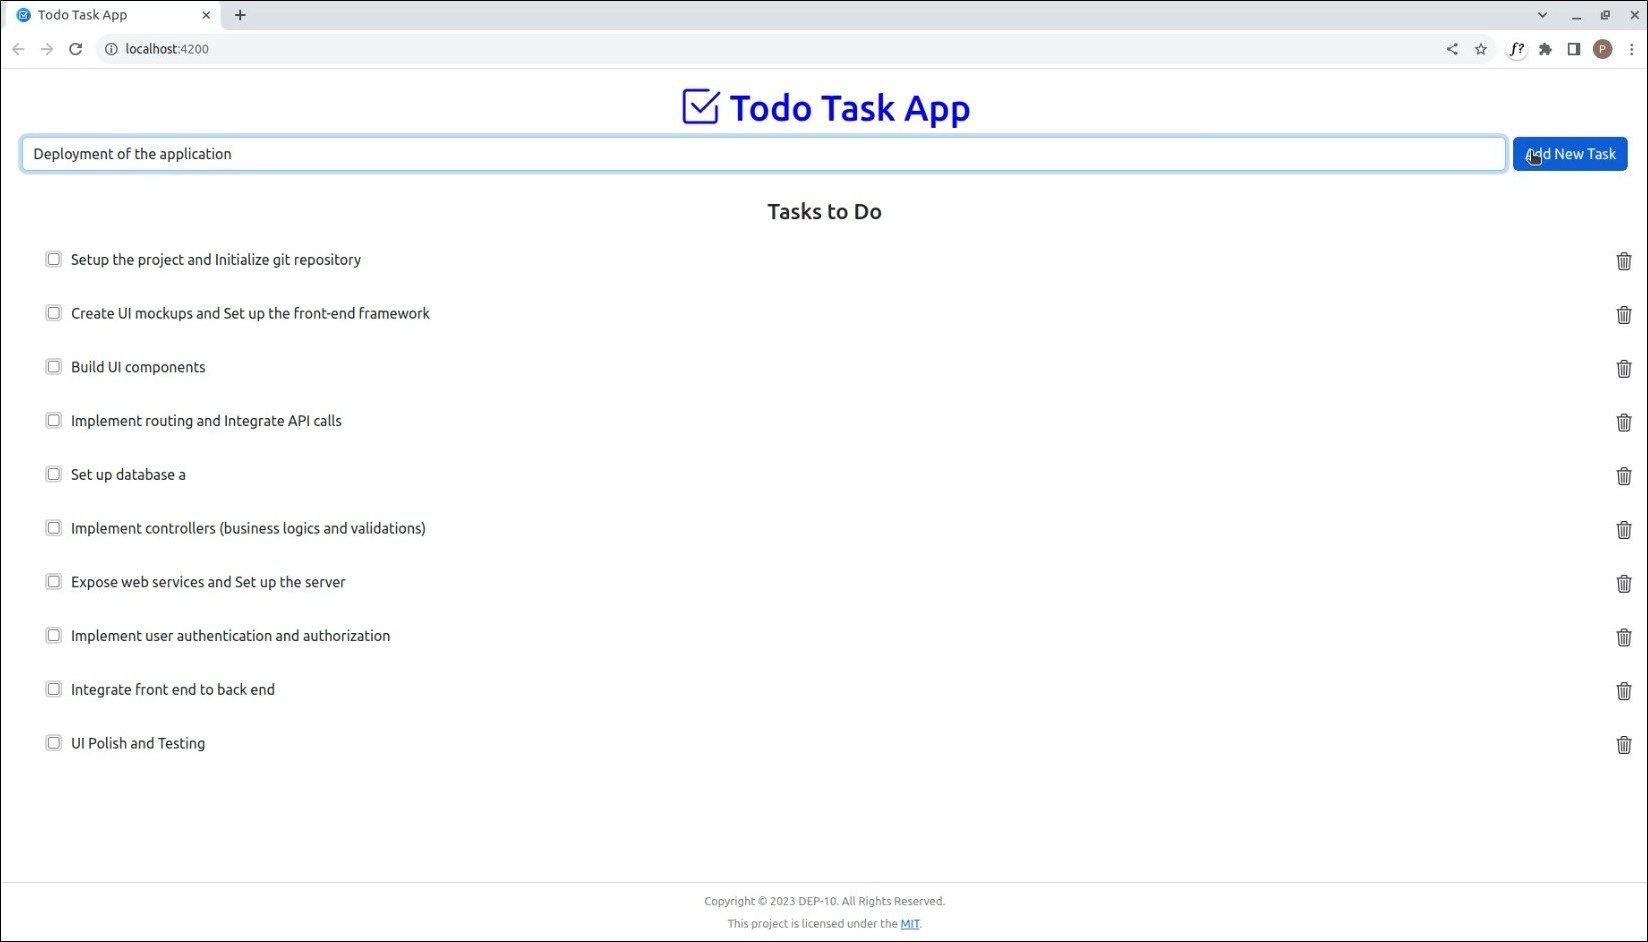
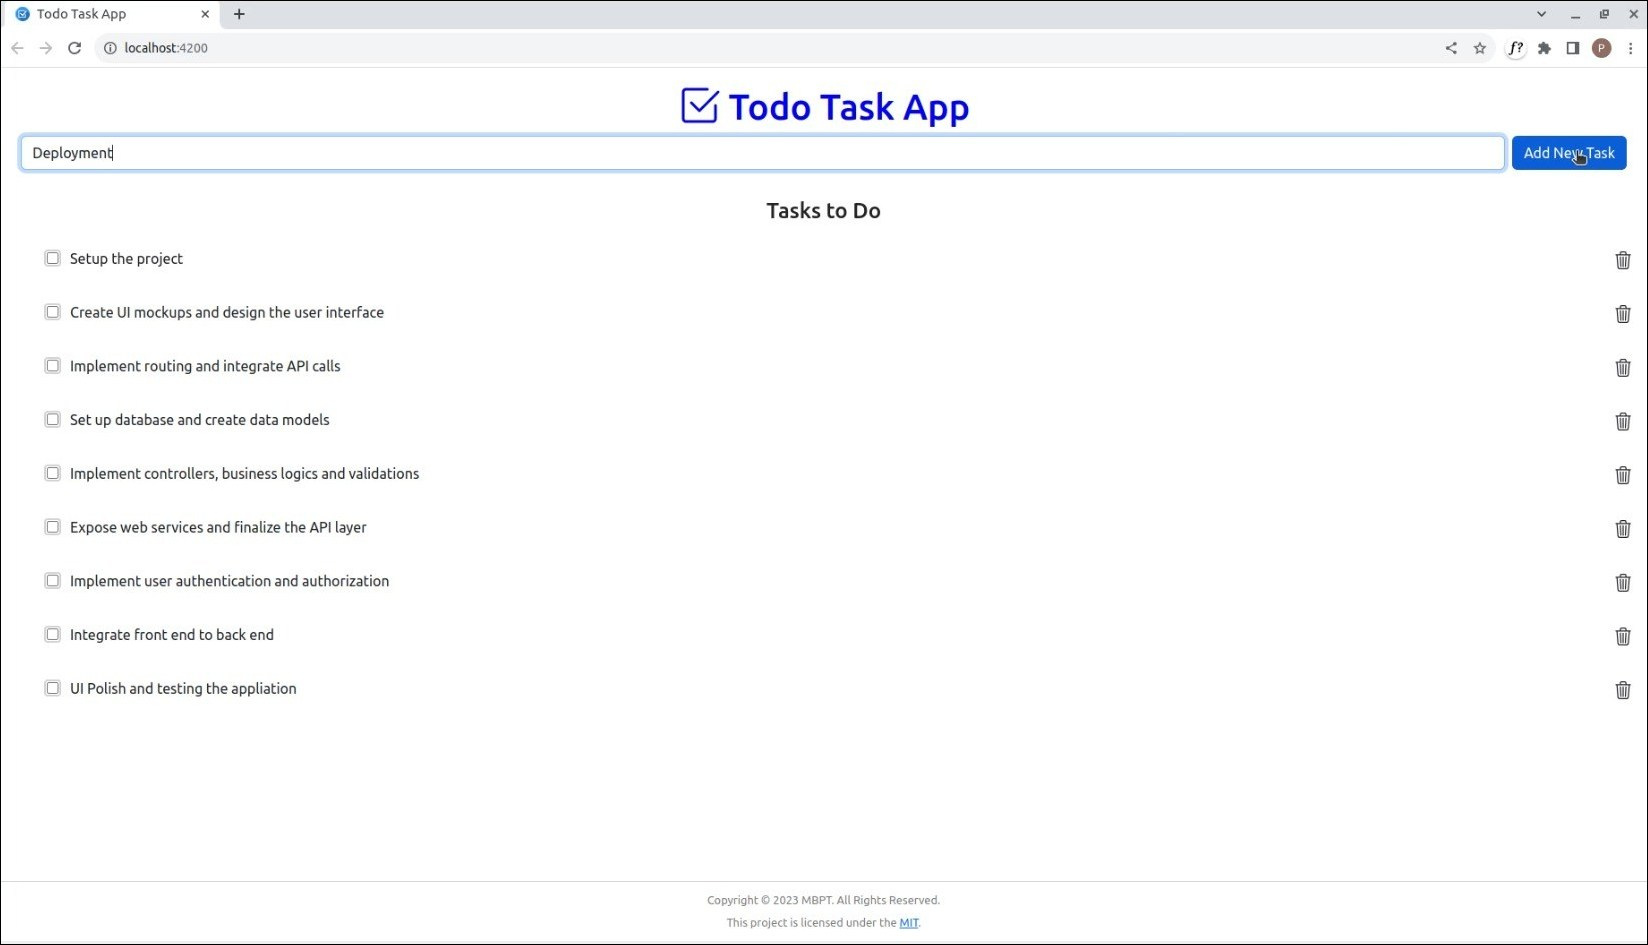
Add LICENSE file

diff --git a/front-end/src/index.html b/front-end/src/index.html
@@ -10,7 +10,7 @@
 <body>
   <app-root></app-root>
   <footer class="text-center p-2 lh-lg">
-    Copyright &copy; 2023 DEP-10. All Rights Reserved. <br>
+    Copyright &copy; 2023 MBPT. All Rights Reserved. <br>
     This project is licensed under the <a href="https://opensource.org/license/mit/">MIT</a>.
   </footer>
 </body>
